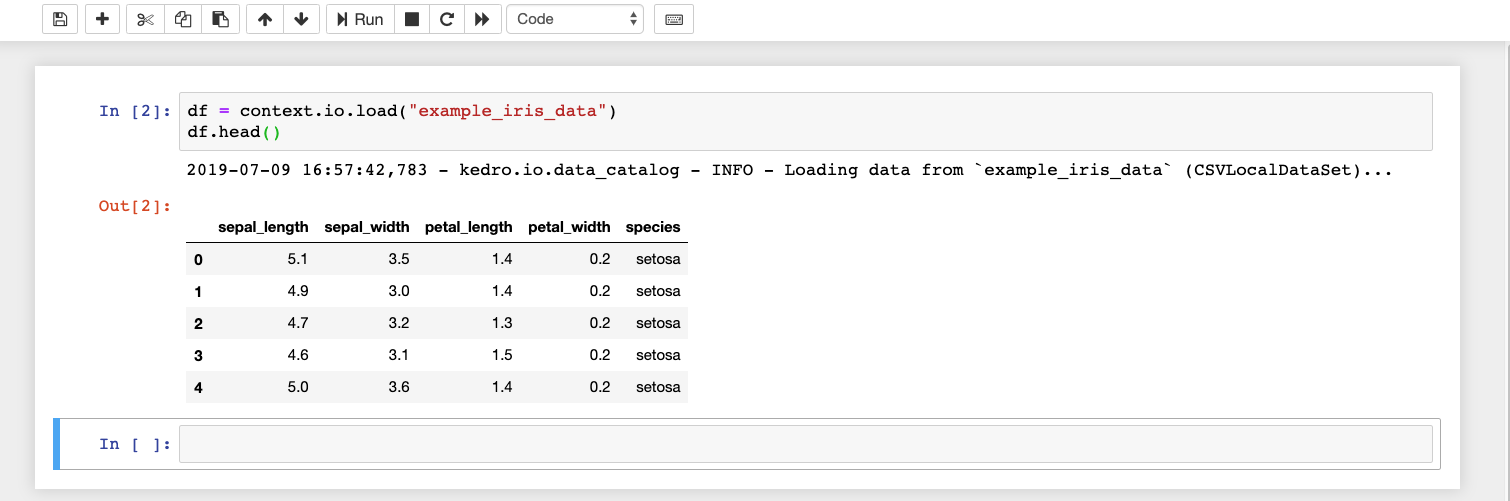
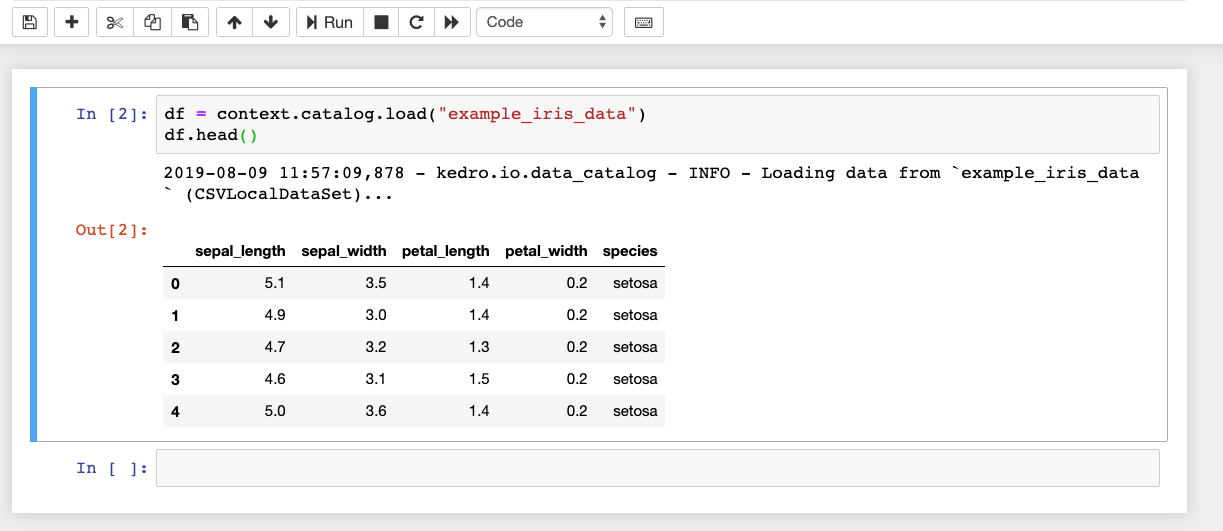
Update documentation for release 0.15.0 (#182)

diff --git a/docs/source/04_user_guide/10_ipython.md b/docs/source/04_user_guide/10_ipython.md
@@ -18,7 +18,7 @@ Every time you start/restart an IPython session, a startup script (`<your_projec
 To reload these at any point (e.g., if you updated `catalog.yml`) use the [line magic](https://ipython.readthedocs.io/en/stable/interactive/magics.html) `%reload_kedro`. This magic can also be used to see the error message if any of the variables above are undefined.
 
 With `context`, you can access the following variables and methods
-- `context.project_path` (`str`) - Root directory of the project
+- `context.project_path` (`Path`) - Root directory of the project
 - `context.project_name` (`str`) - Project folder name
 - `context.io` or `context.catalog` (`DataCatalog`) - Data catalog
 - `context.config_loader` - An instance of `ConfigLoader`
@@ -39,10 +39,10 @@ With `context`, you can access the following variables and methods
 
 ## Loading `DataCatalog` in IPython
 
-You can load a dataset of [Iris Test example](https://archive.ics.uci.edu/ml/datasets/iris) inside the IPython console, by simply executing the following:
+You can load a dataset of [Iris test example](https://archive.ics.uci.edu/ml/datasets/iris) inside the IPython console, by simply executing the following:
 
 ```python
-context.io.load("example_iris_data").head()
+context.catalog.load("example_iris_data").head()
 ```
 
 ```bash
@@ -75,7 +75,7 @@ kedro jupyter notebook
 This will open a Jupyter Notebook in your browser. Navigate to `notebooks` folder and create a notebook there with a **Kedro** kernel. After opening the newly created notebook you can check what the data looks like by pasting this into the first cell of the notebook and selecting **Run**:
 
 ```python
-df = context.io.load("example_iris_data")
+df = context.catalog.load("example_iris_data")
 df.head()
 ```
 
@@ -99,7 +99,7 @@ from kedro.context import load_context
 
 proj_path = Path.cwd()
 context = load_context(proj_path)
-df = context.io.load("example_iris_data")
+df = context.catalog.load("example_iris_data")
 df.head()
 ```
 

diff --git a/RELEASE.md b/RELEASE.md
@@ -53,8 +53,8 @@ The easiest way to migrate your project from Kedro 0.14.* to Kedro 0.15.0 is to 
  - `conf/`
 
 3. If you customised your `src/<package>/run.py`, make sure you apply the same customisations to `src/<package>/run.py`
- - If you customised `get_config()`, you can override `_create_config()` method in `ProjectContext` derived class
- - If you customised `create_catalog()`, you can override `_create_catalog()` method in `ProjectContext` derived class
+ - If you customised `get_config()`, you can override `config_loader` property in `ProjectContext` derived class
+ - If you customised `create_catalog()`, you can override `catalog()` property in `ProjectContext` derived class
  - If you customised `run()`, you can override `run()` method in `ProjectContext` derived class
  - If you customised default `env`, you can override it in `ProjectContext` derived class or pass it at construction. By default, `env` is `local`.
  - If you customised default `root_conf`, you can override `CONF_ROOT` attribute in `ProjectContext` derived class. By default, `KedroContext` base class has `CONF_ROOT` attribute set to `conf`.
@@ -138,9 +138,6 @@ None
 
 The initial release of Kedro.
 
-## Thanks to our main contributors
-
-[Nikolaos Tsaousis](https://github.com/tsanikgr), [Ivan Danov](https://github.com/idanov), [Dmitrii Deriabin](https://github.com/DmitryDeryabin), [Gordon Wrigley](https://github.com/tolomea), [Yetunde Dada](https://github.com/yetudada), [Nasef Khan](https://github.com/nakhan98), [Kiyohito Kunii](https://github.com/921kiyo), [Nikolaos Kaltsas](https://github.com/nikos-kal), [Meisam Emamjome](https://github.com/misamae), [Peteris Erins](https://github.com/Pet3ris), [Lorena Balan](https://github.com/lorenabalan), [Richard Westenra](https://github.com/richardwestenra)
 
 ## Thanks for supporting contributions
 

diff --git a/README.md b/README.md
@@ -24,6 +24,9 @@ Kedro is a workflow development tool that helps you build data pipelines that ar
 
 Kedro was originally designed by [Aris Valtazanos](https://github.com/arisvqb) and [Nikolaos Tsaousis](https://github.com/tsanikgr) to solve challenges they faced in their project work.
 
+This work was later turned into a product thanks to the following contributors:
+[Ivan Danov](https://github.com/idanov), [Dmitrii Deriabin](https://github.com/DmitryDeryabin), [Gordon Wrigley](https://github.com/tolomea), [Yetunde Dada](https://github.com/yetudada), [Nasef Khan](https://github.com/nakhan98), [Kiyohito Kunii](https://github.com/921kiyo), [Nikolaos Kaltsas](https://github.com/nikos-kal), [Meisam Emamjome](https://github.com/misamae), [Peteris Erins](https://github.com/Pet3ris), [Lorena Balan](https://github.com/lorenabalan), [Richard Westenra](https://github.com/richardwestenra), [Anton Kirilenko](https://github.com/Flid)
+
 ## How do I install Kedro?
 
 `kedro` is a Python package. To install it, simply run:

diff --git a/docs/source/03_tutorial/05_package_a_project.md b/docs/source/03_tutorial/05_package_a_project.md
@@ -17,9 +17,9 @@ You can package your project by running `kedro package` from the command line. T
 
 ## Extend your project
 
-You can also check out [Kedro-Docker](https://github.com/quantumblacklabs/kedro-docker), an officially supported Kedro plugin for packaging and shipping Kedro projects within [Docker](https://www.docker.com/) containers.
+- You can also check out [Kedro-Docker](https://github.com/quantumblacklabs/kedro-docker), an officially supported Kedro plugin for packaging and shipping Kedro projects within [Docker](https://www.docker.com/) containers.
 
-We also support converting your Kedro project into an Airflow project with the [Kedro-Airflow](https://github.com/quantumblacklabs/kedro-airflow) plugin.
+- We also support converting your Kedro project into an Airflow project with the [Kedro-Airflow](https://github.com/quantumblacklabs/kedro-airflow) plugin.
 
 ## What is next?
 

diff --git a/docs/source/03_tutorial/03_set_up_data.md b/docs/source/03_tutorial/03_set_up_data.md
@@ -64,13 +64,7 @@ If you want to check whether Kedro loads the data correctly, open a `kedro ipyth
 context.catalog.load('companies').head()
 ```
 
-This should show you the first five rows of the dataset. If you want to explore more of it before moving on with the project:
-
-```python
-df = context.catalog.load('companies')
-```
-
-The entire `companies` dataset is loaded into a `pandas` DataFrame and you can play with it as you wish.
+This should show you the first five rows of the dataset. The entire `companies` dataset is loaded into a `pandas` DataFrame and you can play with it as you wish.
 
 When you have finished, simply close `ipython` session by typing the following:
 
@@ -112,6 +106,7 @@ class ExcelLocalDataSet(AbstractDataSet):
 
     Example:
     ::
+
         >>> import pandas as pd
         >>>
         >>> data = pd.DataFrame({'col1': [1, 2], 'col2': [4, 5],

diff --git a/docs/source/04_user_guide/09_developing_plugins.md b/docs/source/04_user_guide/09_developing_plugins.md
@@ -17,7 +17,7 @@ This function provides access to the verbose flag via the key `verbose` and to a
 * `catalog`: an instance of `kedro.io.DataCatalog`.
 * `pipeline`: an instance of `kedro.pipeline.Pipeline`.
 
->*Note*: Plugins may require additional keys be added to `ProjectContext` in `run.py`.
+>*Note*: Plugins may require additional keys to be added to `ProjectContext` in `run.py`.
 
 
 >*Note*: `kedro.cli.get_project_context(key)`, where `key` is `get_config`, `create_catalog`, `create_pipeline`, `template_version`, `project_name` and `project_path`, is deprecated as of `Kedro 0.15.0`, and will be removed for future versions.

diff --git a/docs/source/02_getting_started/04_hello_world.md b/docs/source/02_getting_started/04_hello_world.md
@@ -21,6 +21,7 @@ The project directory will be structured as shown. You are free to adapt the fol
 getting-started     # Parent directory of the template
 ├── .gitignore      # Prevent staging of unnecessary files to git
 ├── kedro_cli.py    # A collection of Kedro command line interface (CLI) commands
+├── .kedro.yml      # Path to discover project context
 ├── README.md       # Project README
 ├── .ipython        # IPython startup scripts
 ├── conf            # Project configuration files
